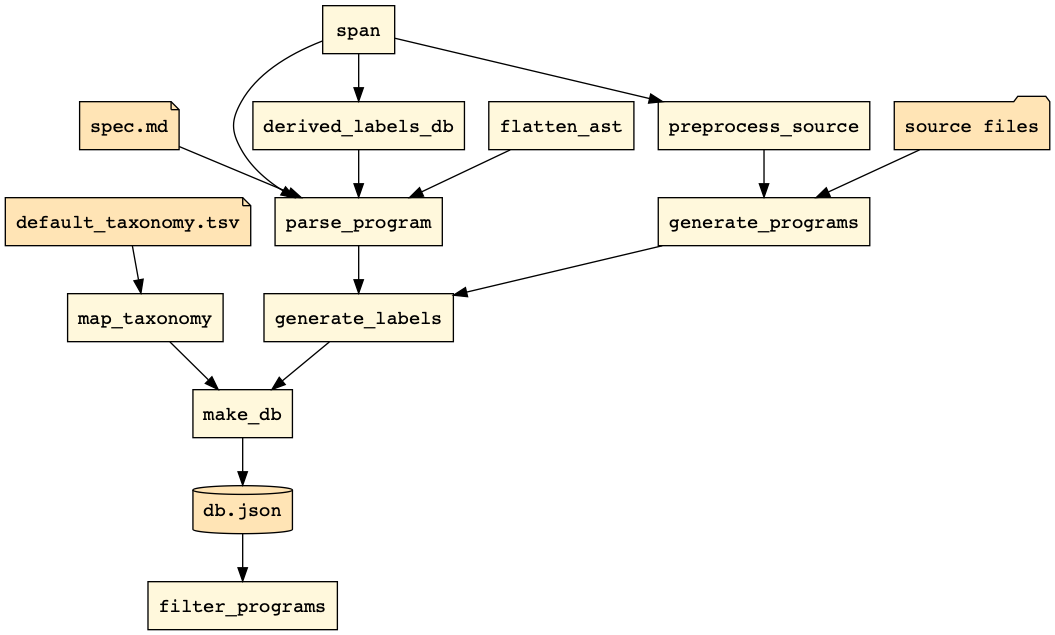
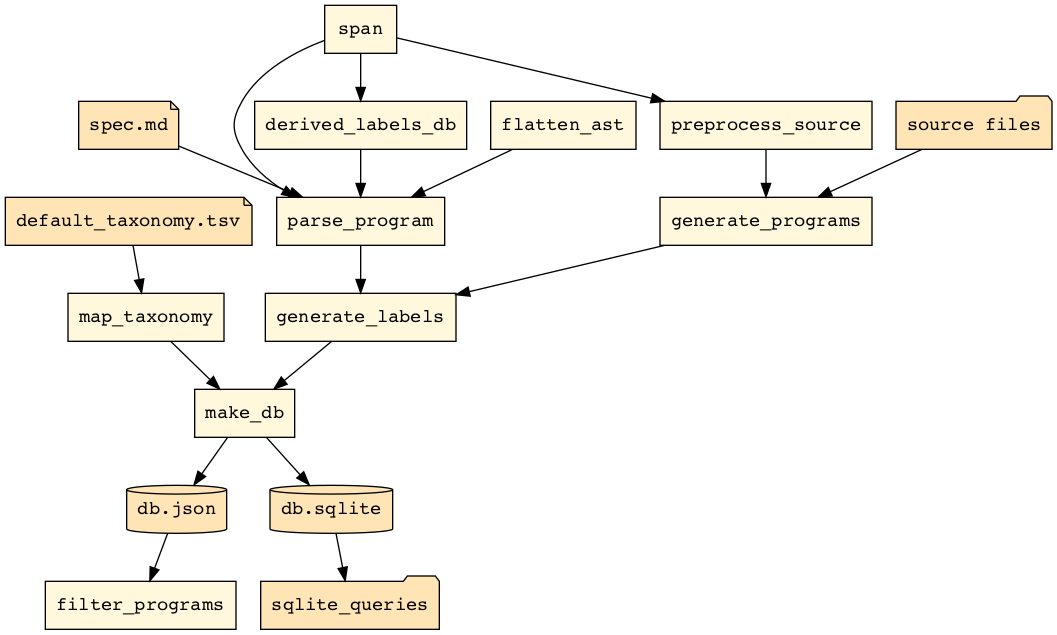
add an SQL output

diff --git a/paroxython/make_db.py b/paroxython/make_db.py
@@ -1,4 +1,5 @@
 import json
+import sqlite3
 from collections import defaultdict
 from datetime import datetime
 from pathlib import Path
@@ -7,6 +8,8 @@ from typing import Any, Dict, List, Tuple, overload
 import regex  # type: ignore
 from typing_extensions import TypedDict  # from Python 3.8, import directly from typing
 
+from generate_labels import generate_labelled_programs
+from map_taxonomy import Taxonomy
 from user_types import (
     LabelName,
     Labels,
@@ -17,8 +20,6 @@ from user_types import (
     TaxonName,
     Taxons,
 )
-from generate_labels import generate_labelled_programs
-from map_taxonomy import Taxonomy
 
 Span = Tuple[int, int]
 LabelsSpans = Dict[LabelName, List[Span]]
@@ -81,6 +82,78 @@ class Database:
         text = regex.sub(r"\s*\[\s+(\d+),\s+(\d+)\s+\](,?)\s+", r"[\1,\2]\3", text)
         Path(path).write_text(text)
 
+    def write_sqlite(self, db_path: str) -> None:
+        program_rows: Tuple = []
+        label_rows: Tuple = []
+        taxon_rows: Tuple = []
+        for (path, info) in self.programs.items():
+            source = f"{path}\n\n" + "\n".join(
+                f"{line_number: <4}{line}"
+                for (line_number, line) in enumerate(info["source"].split("\n"), 1)
+            )
+            program_rows.append((path, info["timestamp"], source))
+            for (name, spans) in info["labels"].items():
+                (prefix, _, suffix) = name.partition(":")
+                for span in spans:
+                    span_string = "-".join(map(str, span)) if span[0] != span[1] else str(span[0])
+                    label_rows.append((name, prefix, suffix, span_string, span[0], span[1], path))
+            for (name, spans) in info["taxons"].items():
+                for span in spans:
+                    span_string = "-".join(map(str, span)) if span[0] != span[1] else str(span[0])
+                    taxon_rows.append((name, span_string, span[0], span[1], path))
+
+        if Path(db_path).exists():  # In Python 3.8, use missing_ok=True parameter
+            Path(db_path).unlink()
+        connexion = sqlite3.connect(db_path)
+        c = connexion.cursor()
+
+        program_columns = (
+            "program TEXT PRIMARY KEY",
+            "timestamp TEXT",
+            "source TEXT",
+        )
+        c.execute(f"CREATE TABLE program ({','.join(program_columns)})")
+        c.executemany(
+            f"INSERT INTO program VALUES ({','.join('?' * len(program_columns))})", program_rows,
+        )
+
+        label_columns = (
+            # use rowid as primary key:
+            "name TEXT",
+            "name_prefix TEXT",
+            "name_suffix TEXT",
+            "span TEXT",
+            "span_start INTEGER",
+            "span_end INTEGER",
+            "program TEXT",
+        )
+        c.execute(
+            f"CREATE TABLE label ({','.join(label_columns)},"
+            "FOREIGN KEY (program) REFERENCES program (program))"
+        )
+        c.executemany(
+            f"INSERT INTO label VALUES ({','.join('?' * len(label_columns))})", label_rows,
+        )
+
+        taxon_columns = (
+            # use rowid as primary key:
+            "name TEXT",
+            "span TEXT",
+            "span_start INTEGER",
+            "span_end INTEGER",
+            "program TEXT",
+        )
+        c.execute(
+            f"CREATE TABLE taxon ({','.join(taxon_columns)},"
+            "FOREIGN KEY (program) REFERENCES program (program))"
+        )
+        c.executemany(
+            f"INSERT INTO taxon VALUES ({','.join('?' * len(taxon_columns))})", taxon_rows,
+        )
+
+        connexion.commit()
+        connexion.close()
+
 
 # fmt: off
 @overload
@@ -100,9 +173,11 @@ def prepared(tags):
 
 if __name__ == "__main__":
     directories = [
-        "../Python/project_euler",
+        # "../Python/project_euler",
         # "../Python/maths",
-        # "../Algo/programs"
+        # "../Algo/programs",
+        "paroxython"
     ]
     database = Database(directories)
     database.write_json("db.json")
+    database.write_sqlite("db.sqlite")

diff --git a/helpers/draw_flow.py b/helpers/draw_flow.py
@@ -14,10 +14,14 @@ Path(f"{base}.dot").write_text(
     % "\n".join(
         [
             '"db.json" [shape=cylinder fillcolor=moccasin]',
+            '"db.sqlite" [shape=cylinder fillcolor=moccasin]',
             '"spec.md" [shape=note fillcolor=moccasin]',
             '"default_taxonomy.tsv" [shape=note fillcolor=moccasin]',
             '"source files" [shape=folder fillcolor=moccasin]',
+            '"sqlite_queries" [shape=folder fillcolor=moccasin]',
             'make_db -> "db.json"',
+            'make_db -> "db.sqlite"',
+            '"db.sqlite" -> sqlite_queries',
             '"db.json" -> filter_programs',
             '"spec.md" -> parse_program',
             '"source files" -> generate_programs',
